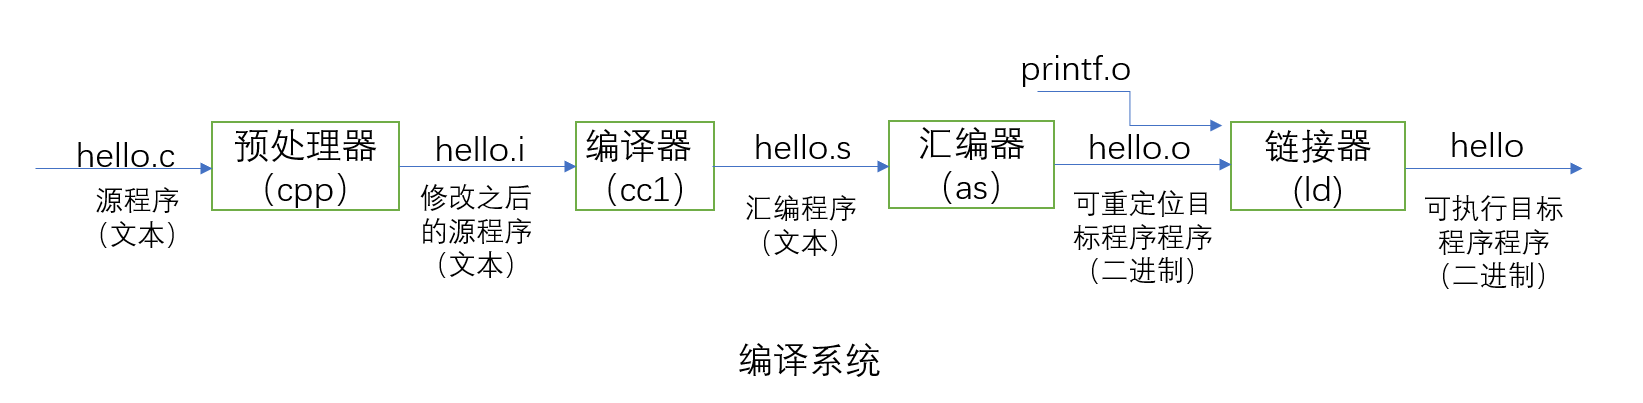
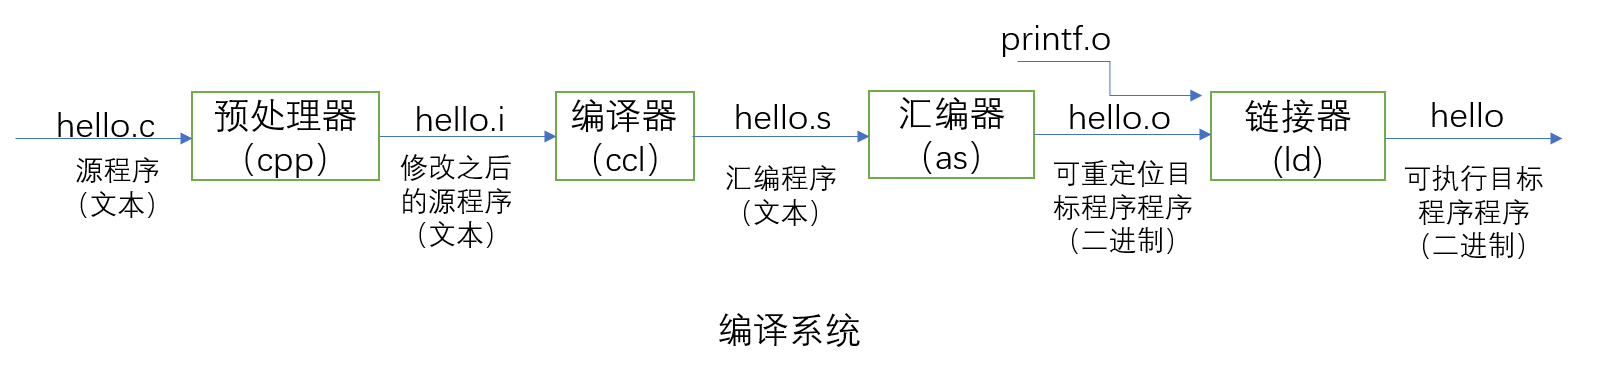
a

diff --git a/_posts/2019-01-22-CSAPP1.md b/_posts/2019-01-22-CSAPP1.md
@@ -27,9 +27,36 @@ tags:
 
 ~相同的数据，处于不同的环境，就会表达出不同的含义，这里的环境即是上下文。~
 
-### 编译系统
+### 编译系统（compilation system）
 
-hello.c翻译成可执行的目标文件hello分为四个阶段完成
+![img](https://github.com/Hkaren78/Hkaren78.github.io/raw/master/img/in-post/CSAPP1/cs.png)
 
+#### hello.c翻译成可执行的目标文件hello分为四个阶段完成
 
+1. 预处理阶段:cpp根据以字符#开头的命令，修改源程序。
+2. 编译阶段
+3. 汇编阶段
+4. 链接阶段
 
+即 高级语言—>汇编语言—>二进制
+
+### 系统的硬件组成
+
+![img](https://github.com/Hkaren78/Hkaren78.github.io/raw/master/img/in-post/CSAPP1/post-bg-system.png)
+
+1. **总线**:携带信息字节并负责在各个部件间传递的贯穿整个系统的一组电子管道。
+
+			通常总线被设计成传送定长的字节块（字word）。
+2. **I/O设备**:系统与外部世界的联系通道。每个I/O设备都通过一个控制器或适配器与I/O总线相连。
+3. **主存**:临时储存设备，在处理器质性程序时，用来存放程序和程序处理的数据。
+
+			内存由一组动态随机存储器（DRAM）芯片组成。
+4. **处理器**:中央处理单元（CPU）解释或执行存储在主存中指令的引擎。
+
+			 处理器的核心是是一个大小为**一个字**的存储设备（或寄存器），称为**程序计数器**（PC）。
+
+			 在任何时候，PC都指向主存中的某条机器语言指令（即含有该条指令的地址）
+
+>字中的字节数（即字长）是一个基本的系统参数，各个系统不同。一般机器字长为 4个字节（32位）或8个字节（64位）。
+
+>**控制器与适配器之间的区别主要在于它们的封装方式。** ***控制器***是I/O设备本身或者系统的主印制电路板（主板）上的芯片组。***适配器***是一块插在主板插槽上的卡。但两者功能均为在I/O总线和I/O设备之间传递消息。
